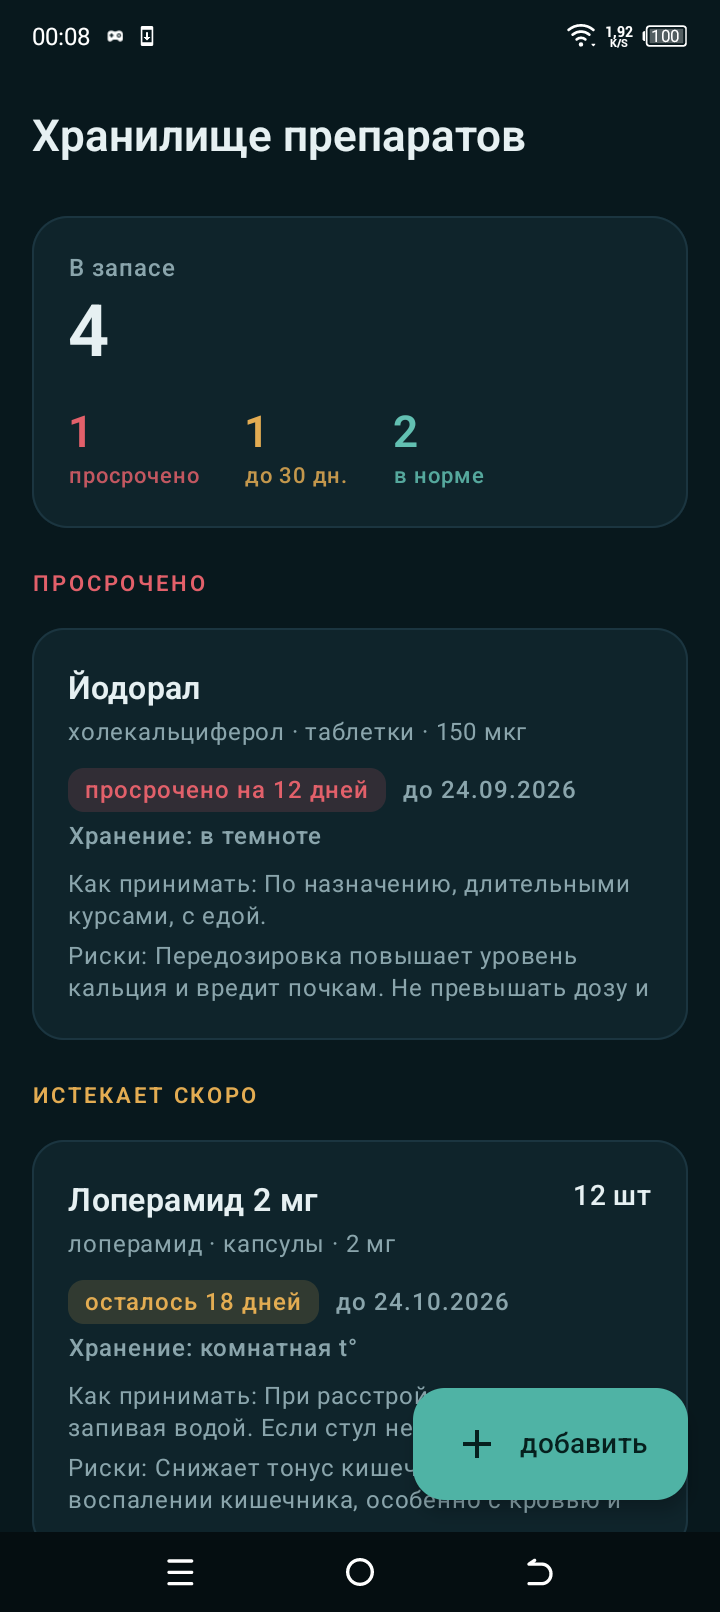
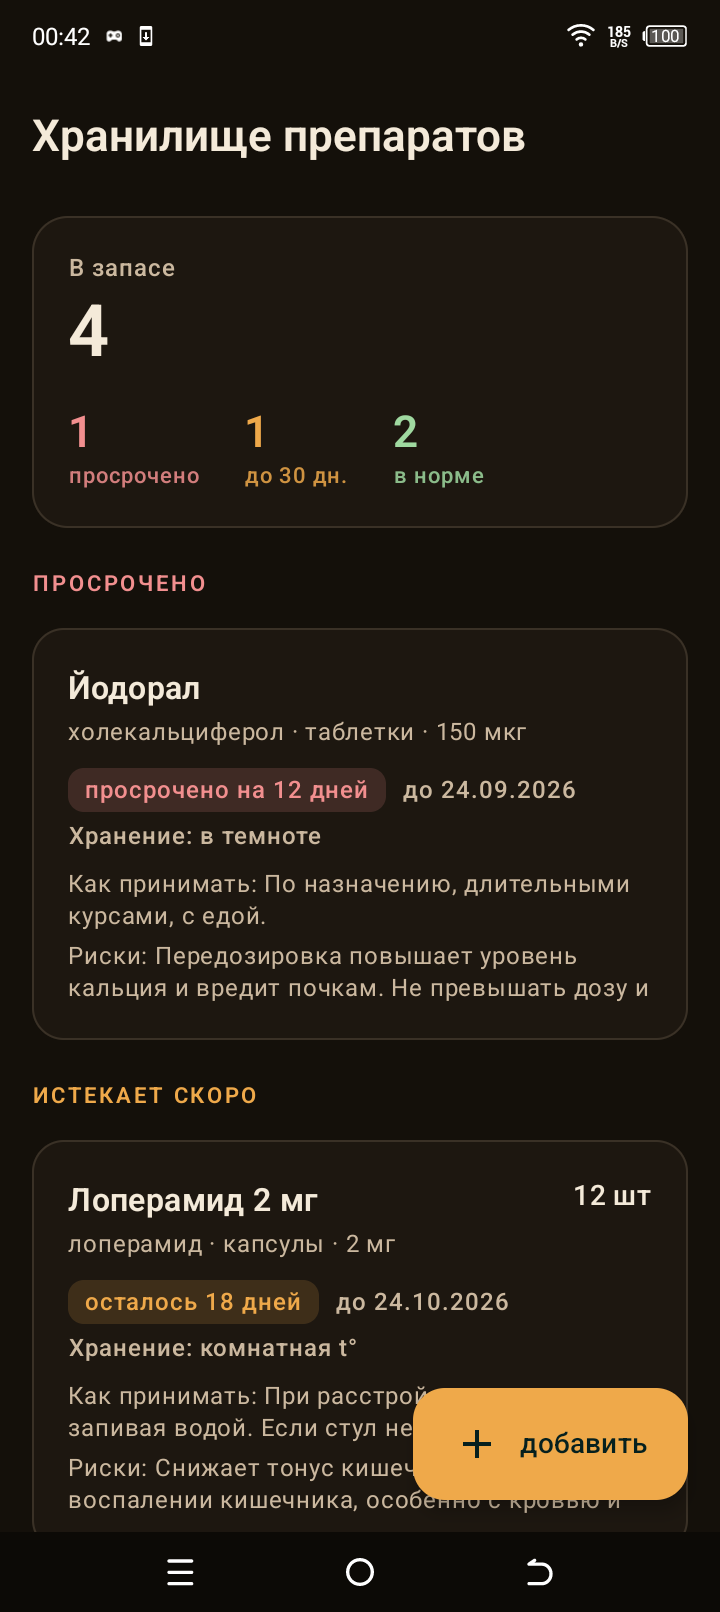
Палитры как в Дневнике давления, снимки в новом оформлении, фон значка в тон приложению

diff --git a/app/src/main/java/ru/medsstore/ui/theme/Theme.kt b/app/src/main/java/ru/medsstore/ui/theme/Theme.kt
@@ -29,41 +29,55 @@ data class Palette(
     val lightAccent: Color,
     val dark: Boolean = true,
 ) {
-    /** Состояния срока годности не зависят от палитры: просроченное всегда
-     *  красное, иначе человек привыкает, что «зелёное» — значит «в норме». */
-    val danger: Color get() = if (dark) Color(0xFFE2606A) else Color(0xFFC0392B)
-    val warn: Color get() = if (dark) Color(0xFFE3AC52) else Color(0xFFB07514)
-    val ok: Color get() = if (dark) Color(0xFF62C0B2) else Color(0xFF0F7C70)
+    /**
+     * Состояния срока годности.
+     *
+     * Значения — из палитры «Дневника давления», чтобы «просрочено» и «скоро»
+     * выглядели одинаково в обоих приложениях. Просроченное всегда красное:
+     * иначе человек привыкает, что «зелёное» — значит «в норме».
+     */
+    val danger: Color get() = if (dark) Color(0xFFF28F8F) else Color(0xFFB3261E)
+    val warn: Color get() = if (dark) darkAccent else lightAccent
+    val ok: Color get() = if (dark) Color(0xFF9FD9A0) else Color(0xFF3F6B32)
 }
 
+/**
+ * Палитры — те же четыре, что в «Дневнике давления», с теми же цветами.
+ *
+ * Раньше здесь были свои четыре (Бирюза, Индиго, Янтарь, Графит). Названия
+ * «Графит» совпадал, остальные нет, и рядом друг с другом приложения выглядели
+ * как из разных семейств. Общего кода между приложениями нет и не будет: они
+ * собираются отдельно, поэтому палитры просто повторяются числами. При
+ * правке одной стороны правьте и другую.
+ */
 val palettes = listOf(
     Palette(
-        key = "teal", title = "Бирюза",
-        darkBg = Color(0xFF08181D), darkSurface = Color(0xFF0F242B), darkLine = Color(0xFF1B3540),
-        darkInk = Color(0xFFE6F0F2), darkMuted = Color(0xFF8AA5AC), darkAccent = Color(0xFF4FB3A5),
-        lightBg = Color(0xFFF2F7F7), lightSurface = Color(0xFFFFFFFF), lightLine = Color(0xFFDDE7E8),
-        lightInk = Color(0xFF10262B), lightMuted = Color(0xFF5B7680), lightAccent = Color(0xFF0F7C70),
-    ),
-    Palette(
-        key = "indigo", title = "Индиго",
-        darkBg = Color(0xFF0B0F1E), darkSurface = Color(0xFF141A2E), darkLine = Color(0xFF232B45),
-        darkInk = Color(0xFFE8EAF6), darkMuted = Color(0xFF939AB8), darkAccent = Color(0xFF8C97F8),
-        lightBg = Color(0xFFF4F5FB), lightSurface = Color(0xFFFFFFFF), lightLine = Color(0xFFDFE1EF),
-        lightInk = Color(0xFF171B33), lightMuted = Color(0xFF5C628A), lightAccent = Color(0xFF4451C8),
-    ),
-    Palette(
-        key = "amber", title = "Янтарь",
-        darkBg = Color(0xFF1A1408), darkSurface = Color(0xFF241C0D), darkLine = Color(0xFF3A2D14),
-        darkInk = Color(0xFFF4ECDD), darkMuted = Color(0xFFB3A183), darkAccent = Color(0xFFE3AC52),
-        lightBg = Color(0xFFFBF7EF), lightSurface = Color(0xFFFFFFFF), lightLine = Color(0xFFEDE3D0),
-        lightInk = Color(0xFF2A2113), lightMuted = Color(0xFF7C6A48), lightAccent = Color(0xFFB07514),
+        key = "espresso", title = "Эспрессо",
+        darkBg = Color(0xFF14100A), darkSurface = Color(0xFF1D1710), darkLine = Color(0xFF3A3126),
+        darkInk = Color(0xFFF4EAD9), darkMuted = Color(0xFFCBB89F), darkAccent = Color(0xFFEFA94A),
+        lightBg = Color(0xFFFAF4E8), lightSurface = Color(0xFFFFFDF8), lightLine = Color(0xFFDCCFB6),
+        lightInk = Color(0xFF241A0F), lightMuted = Color(0xFF6B5A44), lightAccent = Color(0xFF8A5A17),
     ),
     Palette(
         key = "graphite", title = "Графит",
-        darkBg = Color(0xFF101214), darkSurface = Color(0xFF181B1E), darkLine = Color(0xFF2A2F34),
-        darkInk = Color(0xFFE9ECEF), darkMuted = Color(0xFF98A2AC), darkAccent = Color(0xFFAEB9C3),
-        lightBg = Color(0xFFF5F6F7), lightSurface = Color(0xFFFFFFFF), lightLine = Color(0xFFE1E4E7),
-        lightInk = Color(0xFF1A1D20), lightMuted = Color(0xFF636C75), lightAccent = Color(0xFF4A5560),
+        darkBg = Color(0xFF0E1113), darkSurface = Color(0xFF171B1E), darkLine = Color(0xFF2E353C),
+        darkInk = Color(0xFFE8EDF0), darkMuted = Color(0xFF9AA5AE), darkAccent = Color(0xFFA8D84A),
+        lightBg = Color(0xFFF2F5F6), lightSurface = Color(0xFFFFFFFF), lightLine = Color(0xFFD3DADE),
+        lightInk = Color(0xFF16191C), lightMuted = Color(0xFF55606A), lightAccent = Color(0xFF4E6B12),
+    ),
+    Palette(
+        key = "tide", title = "Прилив",
+        darkBg = Color(0xFF07161A), darkSurface = Color(0xFF0E2026), darkLine = Color(0xFF22383C),
+        darkInk = Color(0xFFDCF2F2), darkMuted = Color(0xFF92B4B8), darkAccent = Color(0xFF4ED9C4),
+        lightBg = Color(0xFFEFF7F7), lightSurface = Color(0xFFFFFFFF), lightLine = Color(0xFFC9DCDE),
+        lightInk = Color(0xFF0B1F22), lightMuted = Color(0xFF46656A), lightAccent = Color(0xFF006A5E),
+    ),
+    Palette(
+        key = "paper", title = "Бумага",
+        darkBg = Color(0xFF1A1414), darkSurface = Color(0xFF241C1C), darkLine = Color(0xFF3E302E),
+        darkInk = Color(0xFFF6EAE8), darkMuted = Color(0xFFC6ACA8), darkAccent = Color(0xFFE08A7A),
+        lightBg = Color(0xFFFAF3F0), lightSurface = Color(0xFFFFFFFF), lightLine = Color(0xFFE7D5D0),
+        lightInk = Color(0xFF211715), lightMuted = Color(0xFF6E5550), lightAccent = Color(0xFF9C3A2B),
     ),
 )
 

diff --git a/app/src/main/java/ru/medsstore/data/Store.kt b/app/src/main/java/ru/medsstore/data/Store.kt
@@ -94,9 +94,9 @@ class Settings(context: Context) {
         get() = prefs.getString("theme", "dark") ?: "dark"
         set(v) = prefs.edit().putString("theme", v).apply()
 
-    /** teal | indigo | amber | graphite */
+    /** espresso | graphite | tide | paper */
     var accent: String
-        get() = prefs.getString("accent", "teal") ?: "teal"
+        get() = prefs.getString("accent", "espresso") ?: "espresso"
         set(v) = prefs.edit().putString("accent", v).apply()
 
     var compact: Boolean

diff --git a/README.md b/README.md
@@ -34,6 +34,10 @@
   затирать то, что человек написал сам.
 - **Количество и единица** — штуки, упаковки, миллилитры.
 - **Оформление** — тема и четыре палитры, меняются на месте, без перезапуска.
+  Палитры те же, что в «Дневнике давления» (`../chronic-android`): Эспрессо,
+  Графит, Прилив, Бумага, с теми же цветами. Общего кода между приложениями
+  нет — они собираются отдельно, поэтому палитры повторяются числами, и при
+  правке одной стороны правьте и другую.
 
 ## Про справочник
 
